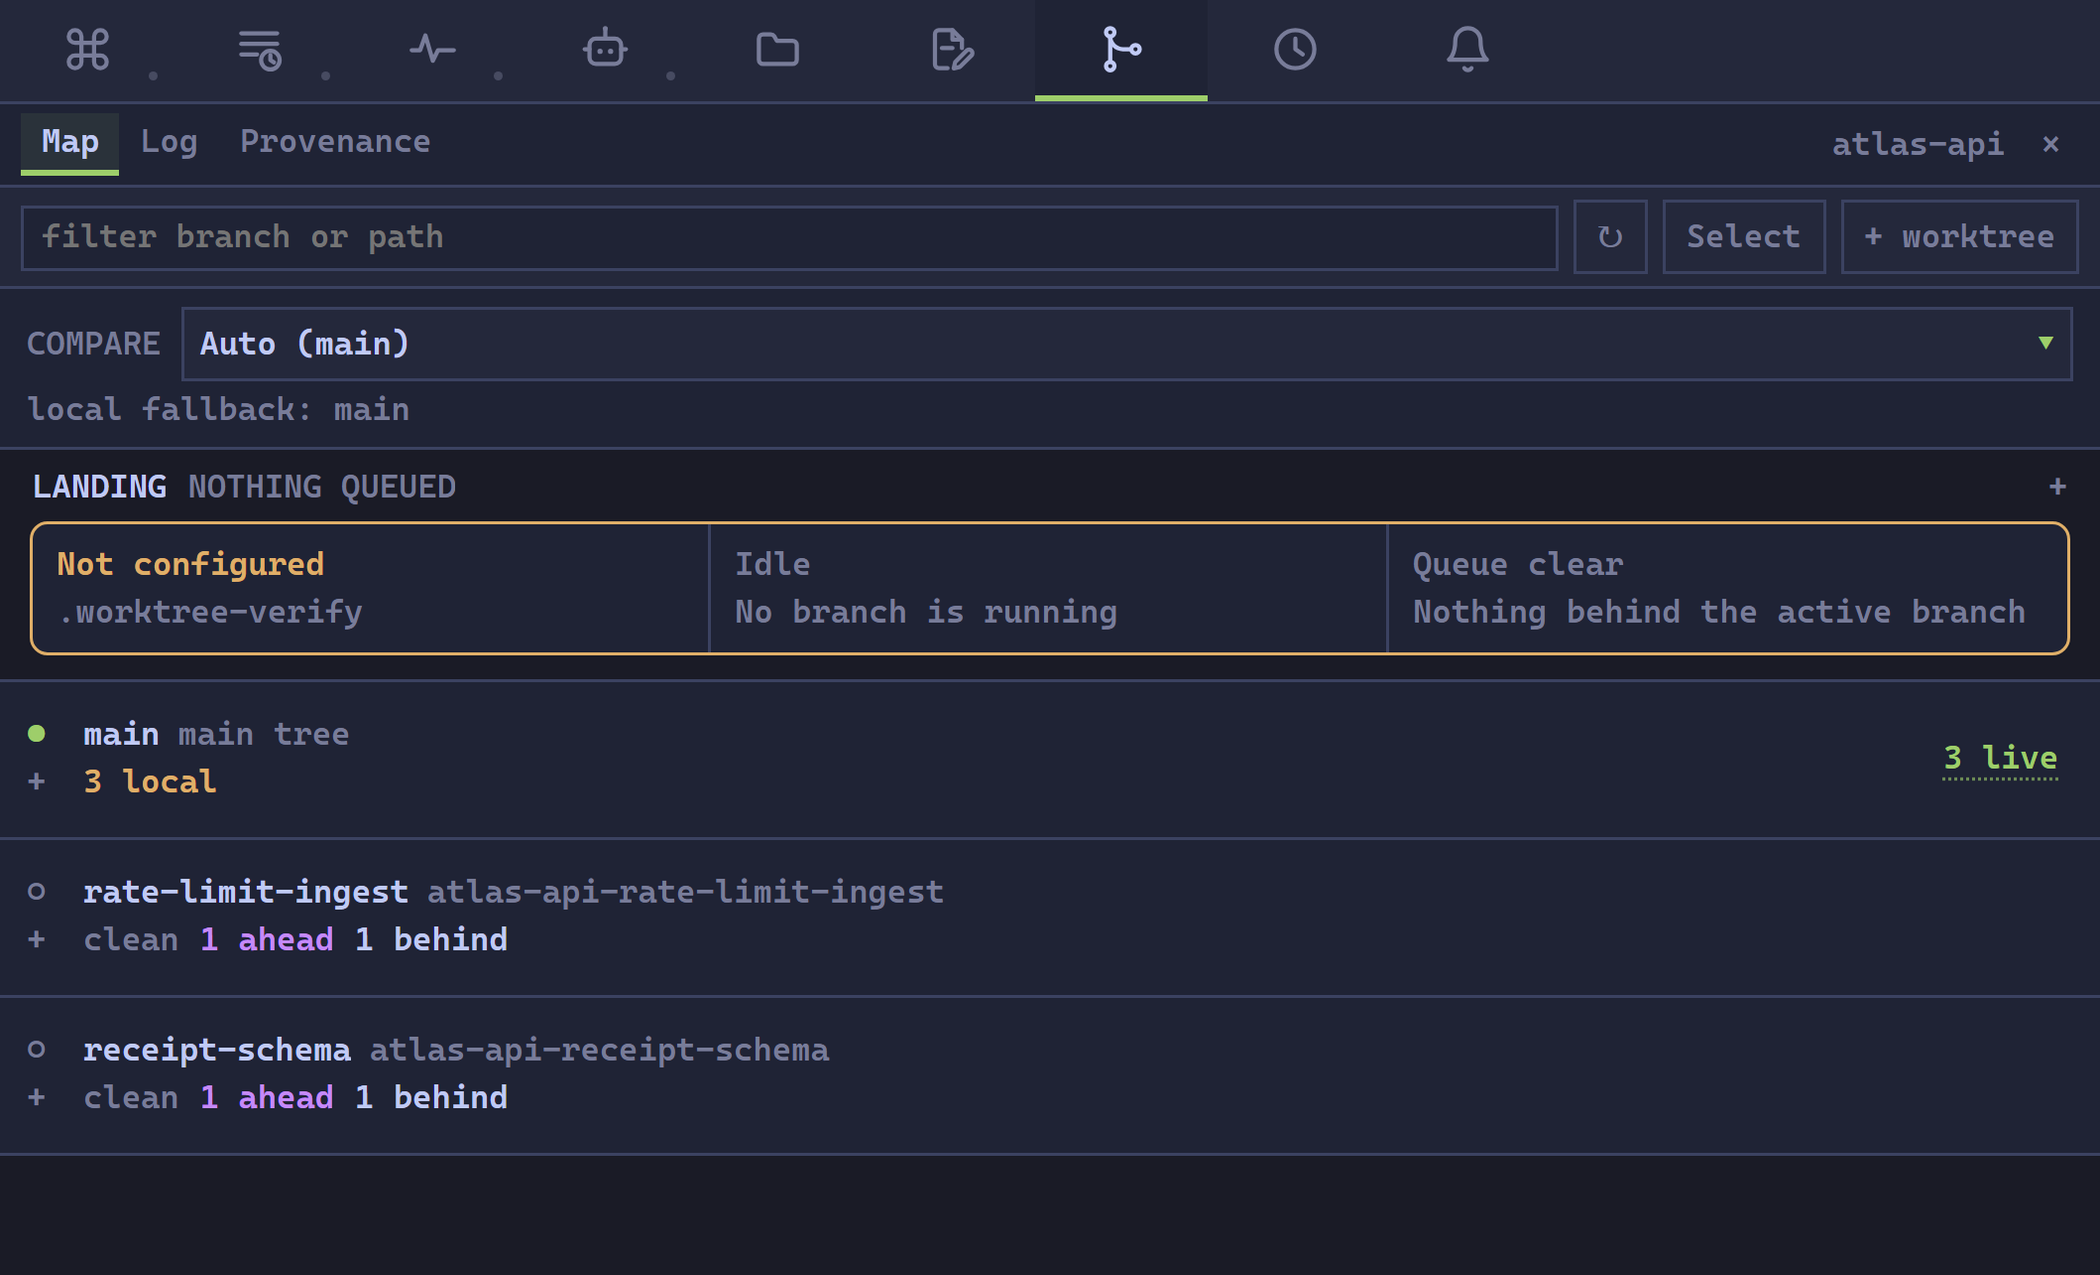
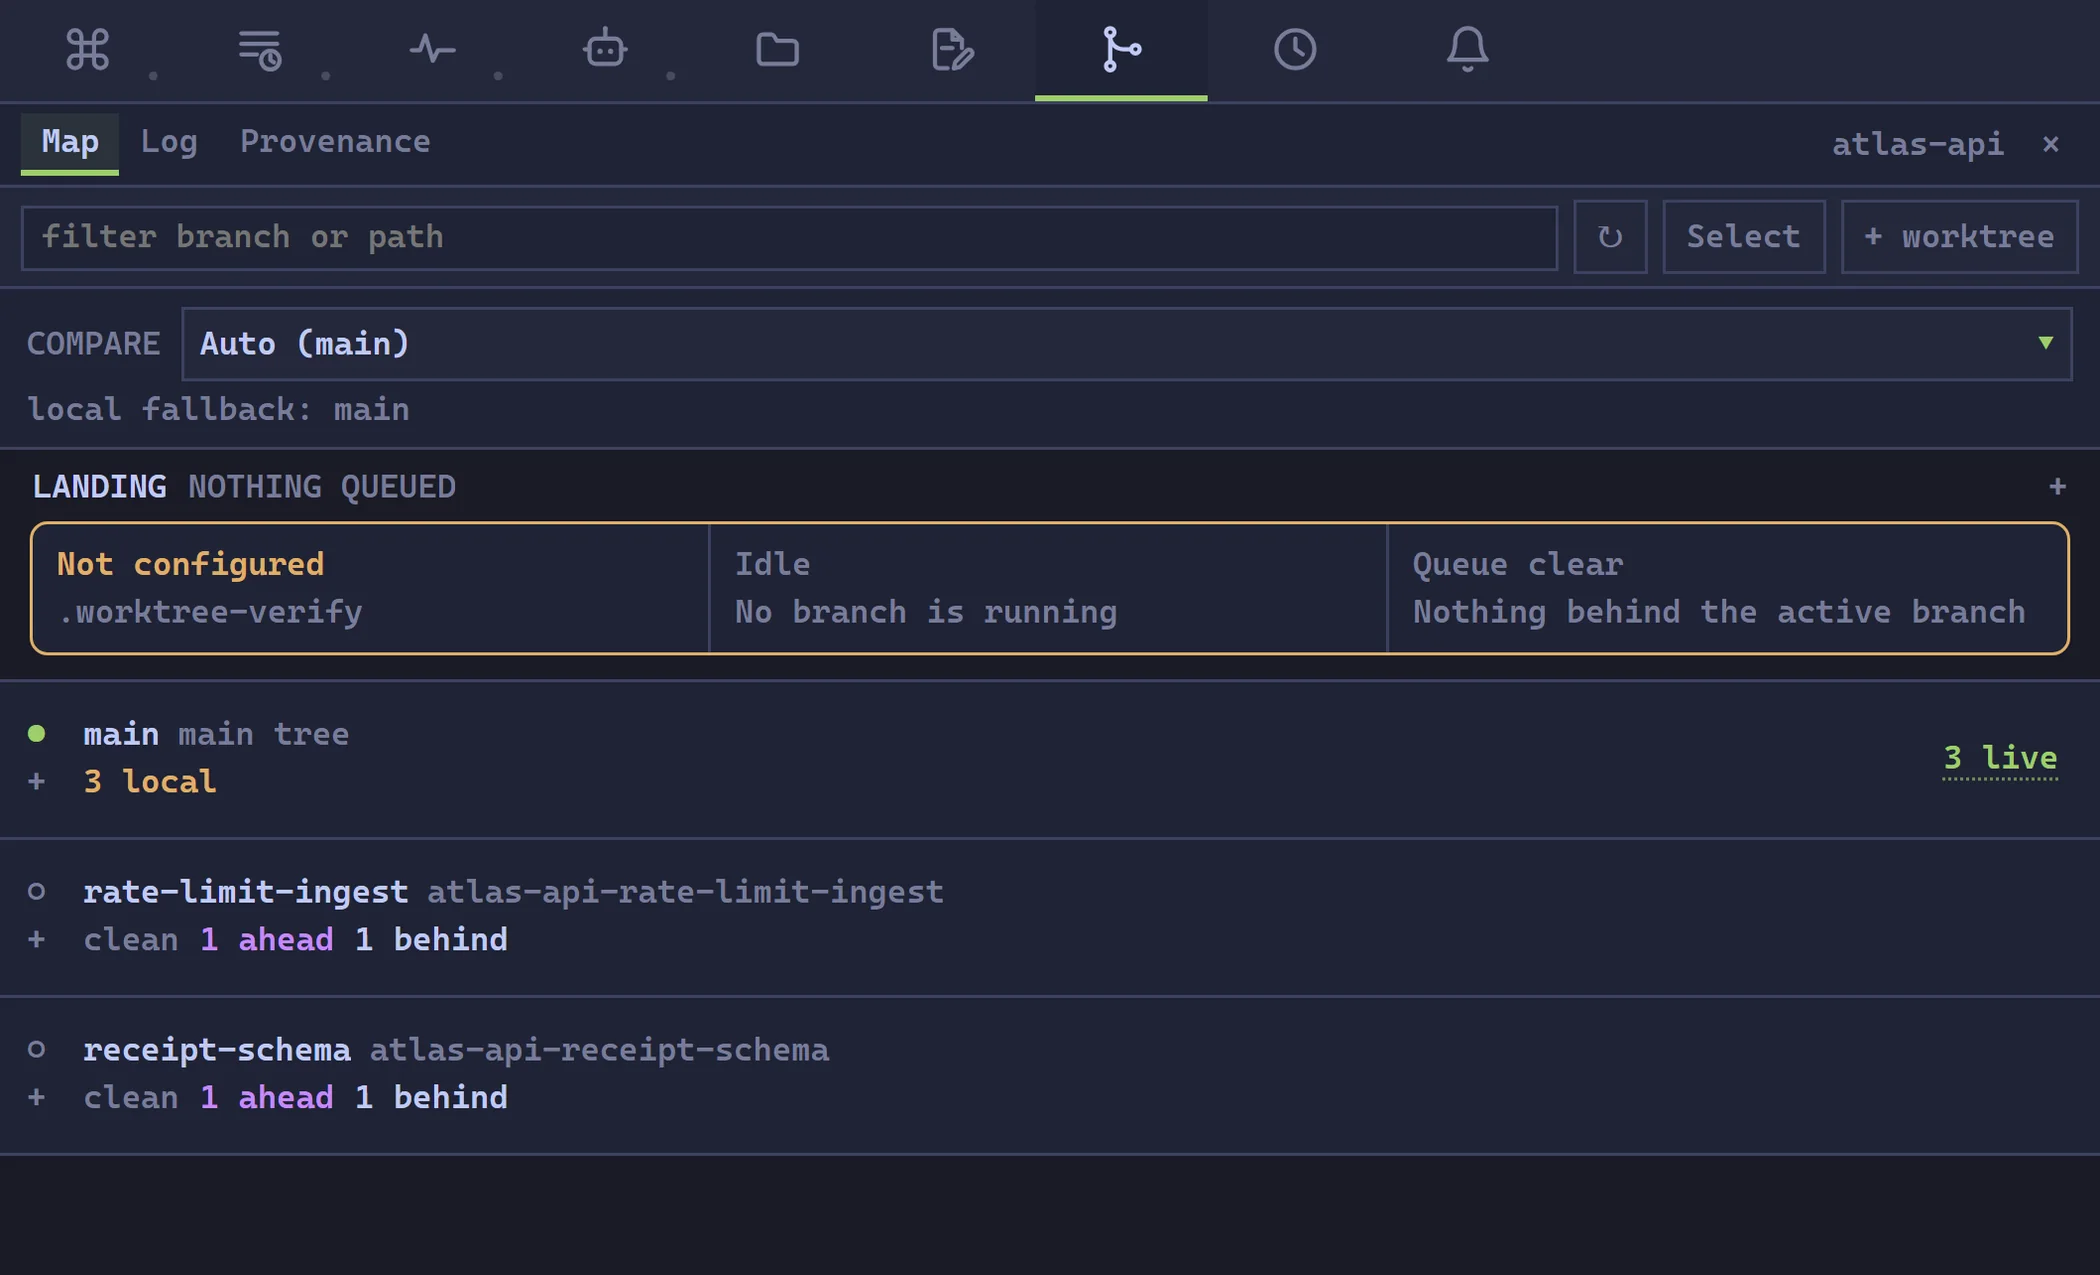
Re-encode the desktop screenshots at the quality the eye actually needs
The four desktop shots were lossless WebP: 1077 KB between them for images
whose lossy q84 encodes are indistinguishable at 2x magnification. They now
ship at q84 (1077 KB -> 447 KB). The four mobile shots stay lossless because
lossy is *larger* there at every quality - flat phone UI compresses better
without a DCT.

write_webp now encodes both ways and keeps the smaller file, so a re-shoot
reproduces this outcome instead of regressing to the old sizes, and a shot
that exceeds the ceiling in its smaller encoding fails loudly instead of
silently shipping a q92 fallback.

diff --git a/trailer/capture_site_shots.py b/trailer/capture_site_shots.py
@@ -122,10 +122,32 @@ WIDE_PANEL_VIEWPORT = {"width": 1400, "height": 638}
 
 # ------------------------------------------------------------------- plumbing
 def write_webp(image: Image.Image, path: Path) -> None:
+    """Encode both ways and keep the smaller file.
+
+    Measured on the 2026-08-28 set: lossless wins on every mobile shot (flat
+    colour, few gradients - lossy q80 was still 5-40% *larger*), while lossy wins
+    on every desktop shot (2.5-4x smaller at q84). q84 was chosen by eye against
+    the lossless originals at 2x magnification - terminal text, coloured commit
+    hashes, and the dark gradients all survive it with no visible difference -
+    so raising it buys bytes for nothing and lowering it was not re-verified.
+    """
+    import io
+
     path.parent.mkdir(parents=True, exist_ok=True)
-    image.save(path, "WEBP", lossless=True, quality=100, method=6)
+    encodings: list[bytes] = []
+    for options in (
+        {"lossless": True, "quality": 100, "method": 6},
+        {"lossless": False, "quality": 84, "method": 6},
+    ):
+        buffer = io.BytesIO()
+        image.save(buffer, "WEBP", **options)
+        encodings.append(buffer.getvalue())
+    path.write_bytes(min(encodings, key=len))
     if path.stat().st_size > MAX_BYTES:
-        image.save(path, "WEBP", lossless=False, quality=92, method=6)
+        raise SystemExit(
+            f"{path.name} is {path.stat().st_size} bytes in its smaller encoding, over the "
+            f"{MAX_BYTES} ceiling; reframe the shot rather than shipping it."
+        )
     print(f"  wrote {path.name:24} {image.width}x{image.height} {path.stat().st_size:>7} bytes")
 
 
